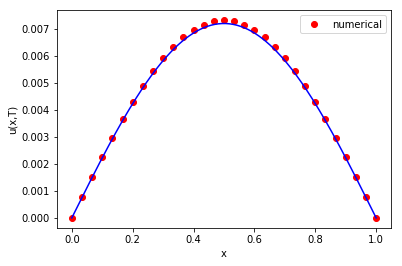
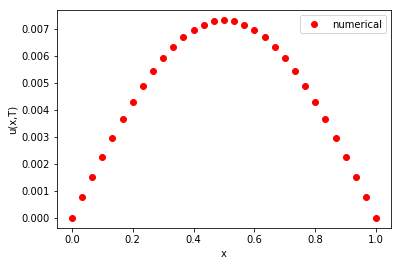
Finished worksheet problems in .py file and notebook, minor changes to ellipticpde

diff --git a/worksheets.py b/worksheets.py
@@ -6,16 +6,18 @@ Created on Sun Jan  6 11:46:18 2019
 """
 import numpy as np
 from sympy import *
-from sympy.abc import x, t
+from sympy.abc import x,y, t
 
 from parabolicpde import ParabolicProblem, backwardeuler
 from hyperbolicpde import HyperbolicProblem
+from ellipticpde import EllipticProblem
 
 from visualizations import plot_solution
 import matplotlib.pyplot as plt
+from scipy.optimize import minimize_scalar
 
 ## Worksheet 1 ##
-
+## 
 ## Q2 (a) 
 
 def solver_demonstration():
@@ -24,14 +26,12 @@ def solver_demonstration():
     def uI(x):
         return np.sin(np.pi*x/L)
     
-    def u(x):
-        return np.exp(-(np.pi**2)*T)*np.sin(np.pi*x)
       
     xs, uT, lmbda = backwardeuler(mx, mt, L, T,
                                   1, 0,
                                   uI, 0, 0, 'Dirichlet', 'Dirichlet')
 
-    plot_solution(xs, uT, uexact=u)
+    plot_solution(xs, uT)
    
 ## Q3 
     
@@ -91,6 +91,55 @@ def tsunami():
     # T = 40 makes a good animation
     uT = wp17.solve_at_T(8.5, 250, 600, plot=True, animate=False)
     
+def sor_test():
+    # elliptic example
+    mx = 40              # number of gridpoints in x
+    my = 20              # number of gridpoints in y
+    maxerr = 1e-4        # target error
+    maxcount = 1000      # maximum number of iteration steps
+    omega = 1.5
+    ep1 = EllipticProblem()
+    
+    u = sin(pi*x/2)*sinh(pi*y/2)/sinh(pi/2)
+    u_new, count, error, err_true = ep1.solve(mx, my, maxcount, maxerr, omega, u)
+    print('Final iteration error = {}\nMax error = {}\nno. of iterations = {}'.format(error, err_true, count))
+    
+def omegas_test():
+    omegas = np.linspace(1,2,30)
+    mx = 40              # number of gridpoints in x
+    my = 20              # number of gridpoints in y
+    maxerr = 1e-4        # target error
+    maxcount = 1000      # maximum number of iteration steps
+    omega = 1.5
+    ep = EllipticProblem()  
+    counts = []
+    
+    for omega in omegas:
+        _,count,_,_ = ep.solve(mx, my, maxcount, maxerr, omega, plot=False)
+        counts.append(count)
+    
+    plt.plot(omegas, counts)
+    plt.xlabel(r'$\omega$')
+    plt.ylabel('No. of iterations')
+    plt.show()
+    
+def min_omega():
+    mx = 40              # number of gridpoints in x
+    my = 20              # number of gridpoints in y
+    maxerr = 1e-4        # target error
+    maxcount = 1000      # maximum number of iteration steps
+    ep = EllipticProblem()   
+    
+    def num_iterations(omega):
+        _,count,_,_=ep.solve(mx, my, maxcount, maxerr, omega, plot=False)
+        return count
+    
+    
+    res = minimize_scalar(num_iterations, bracket=(1,2), tol=1e-3)
+    print(res)
 solver_demonstration()
 #error_analysis()
 #stability_check()
+#sor_test()
+#omegas_test()
+#min_omega()

diff --git a/ellipticpde.py b/ellipticpde.py
@@ -44,19 +44,19 @@ class EllipticProblem:
         display(sp.Eq(u(x,0), self.bbc))
         display(sp.Eq(u(x,y).subs(y,self.Ly), self.tbc))
 
-    def solve(self, mx, my, maxcount, maxerr, omega, u_exact, plot=True):
+    def solve(self, mx, my, maxcount, maxerr, omega, u_exact= None, plot=True):
         """Solve Laplace's equation on a rectangle with Dirichlet 
         boundary conditions"""
-        return ellipticsolve(mx, my, self.Lx, self.Ly,
-                             self.lbc, self.rbc, self.tbc,
-                             self.bbc, maxcount, maxerr,
-                             omega, u_exact)
+        return SOR(mx, my, self.Lx, self.Ly,
+                   self.lbc, self.rbc, self.tbc,
+                   self.bbc, maxcount, maxerr,
+                   omega, u_exact=u_exact, plot=plot)
 
         
         
-def ellipticsolve(mx, my, Lx, Ly,
-                  lbc, rbc, tbc, bbc,
-                  maxcount, maxerr, omega, u_exact, plot=True):
+def SOR(mx, my, Lx, Ly,
+        lbc, rbc, tbc, bbc,
+        maxcount, maxerr, omega, u_exact, plot=True):
     """Solve Laplace's equation on a rectangle with Dirichlet boundary
     conditions, using the SOR method"""
     # set up the numerical environment variables
@@ -82,10 +82,11 @@ def ellipticsolve(mx, my, Lx, Ly,
     u_old[-1,1:-1] = rbc(ys[1:-1])
     u_new[:]=u_old[:]
     
-    # true solution values on the grid 
-    for i in range(0,mx+1):
-        for j in range(0,my+1):
-            u_true[i,j] = u_exact(xs[i],ys[j])
+    if u_exact:
+        # true solution values on the grid 
+        for i in range(0,mx+1):
+            for j in range(0,my+1):
+                u_true[i,j] = u_exact(xs[i],ys[j])
             
 
     count = 1
@@ -100,13 +101,16 @@ def ellipticsolve(mx, my, Lx, Ly,
                      lambdasqr*(u_new[i,j-1]+u_old[i,j+1]) )/(2*(1+lambdasqr))
                 # SOR step
                 u_new[i,j] = u_old[i,j] + omega*R[i,j]
-                
+        
         err = np.max(np.abs(u_new-u_old))
         u_old[:] = u_new[:]
         count=count+1
-        
-    # calculate the error, compared to the true solution    
-    err_true = np.max(np.abs(u_new[1:-1,1:-1]-u_true[1:-1,1:-1]))
+    
+    if u_exact:
+        # calculate the error, compared to the true solution    
+        err_true = np.max(np.abs(u_new[1:-1,1:-1]-u_true[1:-1,1:-1]))
+    else:
+        err_true = 0
     
     if plot:
         # plot the resulting solution
@@ -118,6 +122,6 @@ def ellipticsolve(mx, my, Lx, Ly,
         plt.xlabel('x'); plt.ylabel('y')
         plt.show()
         
-    return u_new, count, err_true
+    return u_new, count, err, err_true
     
     
